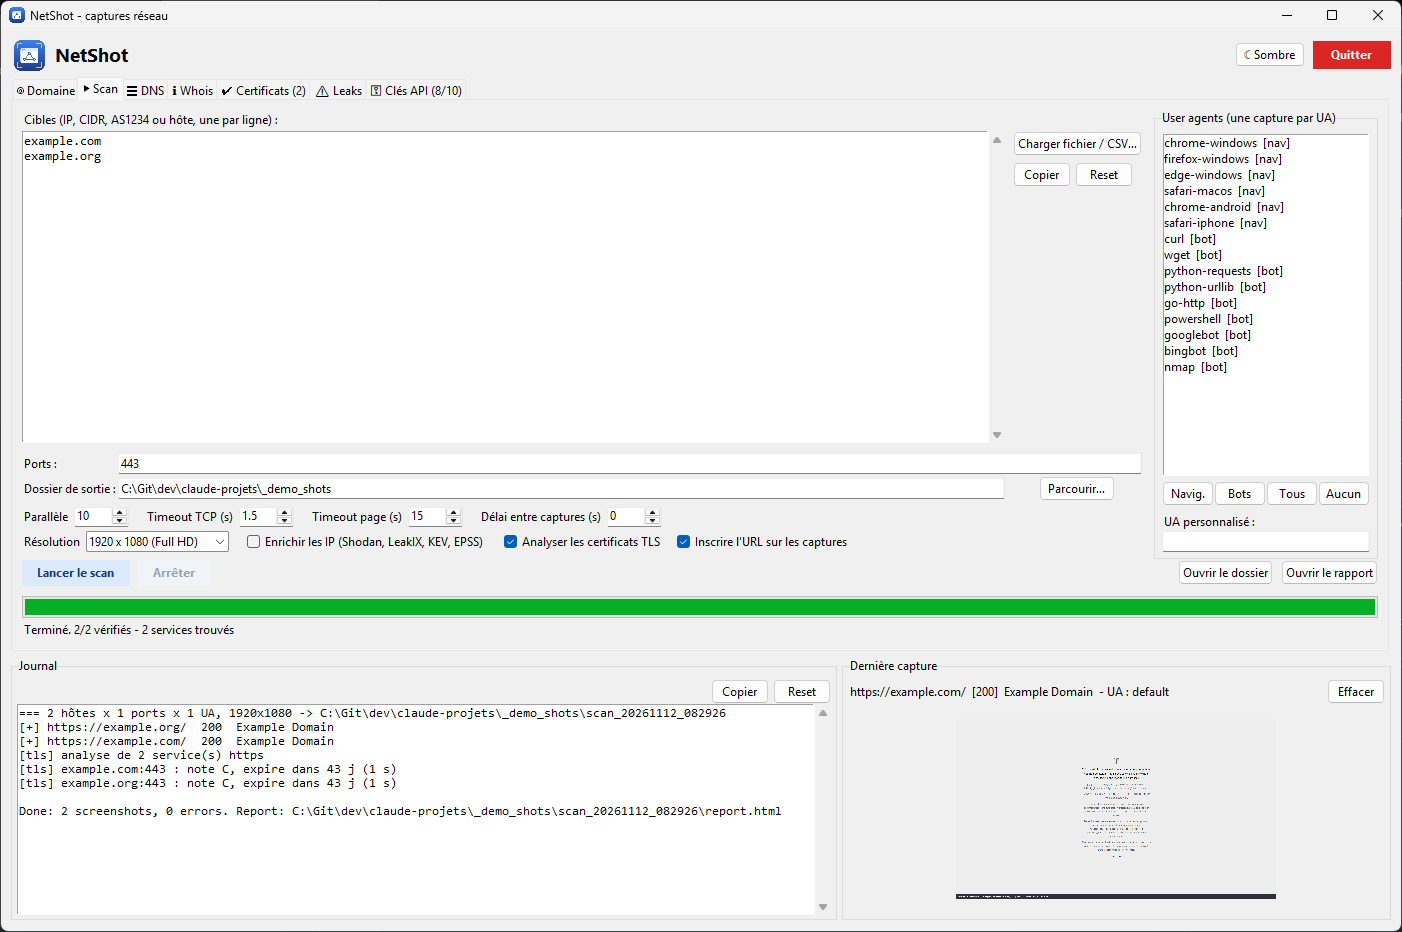
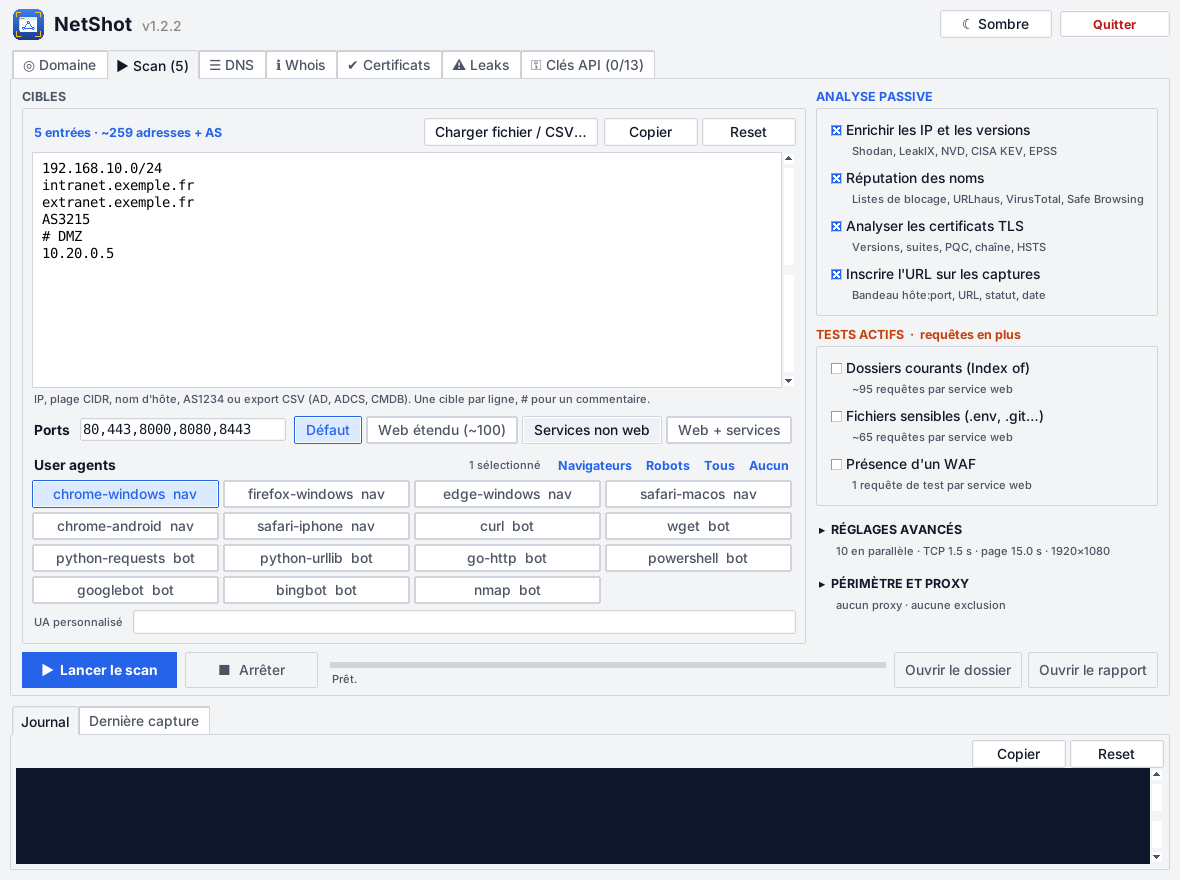
Interface 1.2.2 : autres onglets au style du Scan
- Titres avec icônes, encadré d'attente tant qu'il n'y a pas de résultat (Go)
- Sources en boutons à cocher, constats en pastilles colorées, grille des clés API (Go)
- Boutons principaux en bleu plein, aides et liens stylés, SoftButton supprimé (Python)
- Correctif : onglet DNS sans enregistrement (Go)
- Captures du README mises à jour ; détail dans CHANGELOG.md

Claude-Session: https://claude.ai/code/session_01DHXZEEBybHgq8eFqwoZAWK

Changed region(s): [[0.0, 0.0, 1.0, 1.0], [0.8847, 0.0, 1.0, 0.092], [0.7932, 0.0, 0.8847, 0.0307]]

diff --git a/core/gui.py b/core/gui.py
@@ -62,50 +62,6 @@ LEAK_DATA_COLS = {"email": ("E-mail", 220), "username": ("Identifiant", 120), "p
 LEAK_MASK = "••••••••"  # fixed length: the length of a password is information too
 
 
-# Soft colours for the main action buttons: (background, hover, text)
-SOFT_COLORS = {"primary": ("#dbeafe", "#bfdbfe", "#1e3a8a"),   # soft blue
-               "danger": ("#fee2e2", "#fecaca", "#991b1b")}    # soft red
-SOFT_DISABLED = ("#f1f5f9", "#94a3b8")                         # background, text
-SOFT_COLORS_DARK = {"primary": ("#1e3a5f", "#26507f", "#bfdbfe"),
-                    "danger": ("#4c1d1d", "#652626", "#fecaca")}
-SOFT_DISABLED_DARK = ("#2a2d33", "#6b7280")
-
-
-class SoftButton(tk.Button):
-    """Flat tk.Button in a soft colour, lighter on hover, greyed out when disabled.
-    Same API as the ttk buttons it replaces: configure(state=..., text=...)."""
-
-    def __init__(self, parent, kind="primary", **kw):
-        self._kind, self._disabled = kind, SOFT_DISABLED
-        self._bg, self._hover, fg = SOFT_COLORS[kind]
-        super().__init__(parent, fg=fg, activeforeground=fg, activebackground=self._hover,
-                         disabledforeground=SOFT_DISABLED[1], relief="flat", bd=0, highlightthickness=0,
-                         padx=14, pady=4, font=("Segoe UI", 9, "bold"), **kw)
-        self._paint()
-        self.bind("<Enter>", lambda e: self._paint(hover=True))
-        self.bind("<Leave>", lambda e: self._paint())
-
-    def _paint(self, hover=False):
-        off = str(self["state"]) == "disabled"
-        tk.Button.configure(self, bg=self._disabled[0] if off else (self._hover if hover else self._bg),
-                            cursor="arrow" if off else "hand2")
-
-    def set_dark(self, dark):
-        self._bg, self._hover, fg = (SOFT_COLORS_DARK if dark else SOFT_COLORS)[self._kind]
-        self._disabled = SOFT_DISABLED_DARK if dark else SOFT_DISABLED
-        tk.Button.configure(self, fg=fg, activeforeground=fg, activebackground=self._hover,
-                            disabledforeground=self._disabled[1])
-        self._paint()
-
-    def configure(self, cnf=None, **kw):
-        result = super().configure(cnf, **kw)
-        if "state" in kw or (isinstance(cnf, dict) and "state" in cnf):
-            self._paint()
-        return result
-
-    config = configure
-
-
 class ThinProgress(tk.Canvas):
     """6 px progress bar (a ttk one cannot be that thin in the clam theme). Same calls as the
     ttk.Progressbar it replaces: configure(maximum=..., value=...)."""
@@ -416,7 +372,7 @@ class NetshotApp:
         self.stop_btn.grid(row=0, column=1, rowspan=2, sticky="ns", padx=8)
         self.progress = ThinProgress(actions)
         self.progress.grid(row=0, column=2, sticky="ew", padx=(4, 8), pady=(10, 2))
-        self.status = tk.StringVar(value="Prêt. Aucun UA sélectionné = UA du navigateur.")
+        self.status = tk.StringVar(value="Prêt.")
         ttk.Label(actions, textvariable=self.status, style="Muted.TLabel").grid(row=1, column=2, sticky="w", padx=(4, 8))
         self.folder_btn = ttk.Button(actions, text="Ouvrir le dossier", command=self.open_folder, state="disabled")
         self.folder_btn.grid(row=0, column=3, rowspan=2, sticky="ns")
@@ -432,7 +388,7 @@ class NetshotApp:
         ttk.Label(tab, text="Domaines :").grid(row=0, column=0, sticky="w")
         self.ct_domains = tk.StringVar()
         ttk.Entry(tab, textvariable=self.ct_domains).grid(row=0, column=1, sticky="ew", padx=4)
-        self.ct_btn = SoftButton(tab, text="Rechercher", command=self.ct_search)
+        self.ct_btn = ttk.Button(tab, style="Primary.TButton", text="Rechercher", command=self.ct_search)
         self.ct_btn.grid(row=0, column=2)
         # Source checkboxes: keyed sources without a key are disabled (see refresh_sources)
         checks = ttk.Frame(tab)
@@ -450,7 +406,7 @@ class NetshotApp:
         self.ct_private = tk.BooleanVar(value=False)
         ttk.Checkbutton(filters, text="seulement les noms qui résolvent", variable=self.ct_resolve).pack(side="left", padx=(0, 12))
         ttk.Checkbutton(filters, text="seulement IP privées", variable=self.ct_private).pack(side="left")
-        ttk.Label(tab, foreground="#6b7280", text="Les sources marquées (clé) demandent une clé gratuite "
+        ttk.Label(tab, style="Hint.TLabel", text="Les sources marquées (clé) demandent une clé gratuite "
                   "(onglet Clés API). Les noms trouvés sont ajoutés aux cibles de l'onglet Scan.").grid(
             row=3, column=0, columnspan=3, sticky="w", pady=(6, 0))
         self.ct_title = tk.StringVar()
@@ -472,9 +428,9 @@ class NetshotApp:
         ttk.Label(tab, text="Serveur :").grid(row=0, column=2, sticky="w", padx=(8, 0))
         self.dns_server = tk.StringVar()
         ttk.Entry(tab, textvariable=self.dns_server, width=18).grid(row=0, column=3, padx=4)
-        self.dns_btn = SoftButton(tab, text="Interroger", command=self.dns_run)
+        self.dns_btn = ttk.Button(tab, style="Primary.TButton", text="Interroger", command=self.dns_run)
         self.dns_btn.grid(row=0, column=4)
-        ttk.Label(tab, foreground="#6b7280", wraplength=1050, text="Serveur vide = résolveurs du système. "
+        ttk.Label(tab, style="Hint.TLabel", wraplength=1050, text="Serveur vide = résolveurs du système. "
                   "Une requête ANY est tentée, mais la plupart des serveurs la refusent (RFC 8482) : chaque type "
                   "est aussi interrogé un par un (A, AAAA, NS, SOA, MX, TXT, CAA, DS, DNSKEY, HTTPS, DMARC, "
                   "MTA-STS, SRV Active Directory et Microsoft 365…).").grid(row=1, column=0, columnspan=5, sticky="w", pady=(6, 0))
@@ -545,9 +501,9 @@ class NetshotApp:
         entry = ttk.Entry(tab, textvariable=self.whois_query)
         entry.grid(row=0, column=1, sticky="ew", padx=4)
         entry.bind("<Return>", lambda e: self.whois_run())
-        self.whois_btn = SoftButton(tab, text="Interroger", command=self.whois_run)
+        self.whois_btn = ttk.Button(tab, style="Primary.TButton", text="Interroger", command=self.whois_run)
         self.whois_btn.grid(row=0, column=2)
-        ttk.Label(tab, foreground="#6b7280", wraplength=1050, text="RDAP (registre officiel, via HTTPS) pour le "
+        ttk.Label(tab, style="Hint.TLabel", wraplength=1050, text="RDAP (registre officiel, via HTTPS) pour le "
                   "tableau et les constats, WHOIS port 43 pour le texte brut (souvent filtré en entreprise). "
                   "Un sous-domaine est cherché sous son domaine enregistré. Exemples : exemple.fr, 8.8.8.8, AS3215.").grid(
             row=1, column=0, columnspan=3, sticky="w", pady=(6, 0))
@@ -605,14 +561,14 @@ class NetshotApp:
         ttk.Label(tab, text="Limite :").grid(row=0, column=4, sticky="w", padx=(8, 0))
         self.leak_limit = tk.StringVar(value="100")
         ttk.Spinbox(tab, from_=1, to=1000, increment=100, textvariable=self.leak_limit, width=6).grid(row=0, column=5, padx=4)
-        self.leak_btn = SoftButton(tab, text="Rechercher", command=self.leak_run)
+        self.leak_btn = ttk.Button(tab, style="Primary.TButton", text="Rechercher", command=self.leak_run)
         self.leak_btn.grid(row=0, column=6)
         opts = ttk.Frame(tab)
         opts.grid(row=1, column=0, columnspan=7, sticky="w", pady=(6, 0))
         self.leak_show_pw = tk.BooleanVar(value=False)
         ttk.Checkbutton(opts, text="Afficher les mots de passe", variable=self.leak_show_pw,
                         command=self.leak_render).pack(side="left")
-        ttk.Label(opts, foreground="#6b7280", text="   LeakCheck Pro API v2 (clé dans l'onglet Clés API). "
+        ttk.Label(opts, style="Hint.TLabel", text="   LeakCheck Pro API v2 (clé dans l'onglet Clés API). "
                   "Type auto : e-mail, identifiant, téléphone, hash. Domaine : choisir le type domain. "
                   "Seule la valeur recherchée est envoyée à LeakCheck.").pack(side="left")
         head = ttk.Frame(tab)
@@ -638,22 +594,24 @@ class NetshotApp:
         tab = ttk.Frame(self.nb, padding=10)
         self.nb.add(tab, text=TAB_KEYS)
         tab.columnconfigure(1, weight=1)
-        ttk.Label(tab, text="Champ vide = garder la clé actuelle, « - » = l'effacer.").grid(
-            row=0, column=0, columnspan=3, sticky="w", pady=(0, 8))
+        head = ttk.Frame(tab)
+        head.grid(row=0, column=0, columnspan=3, sticky="w", pady=(0, 8))
+        ttk.Label(head, text="Clés API des services gratuits", style="Section.TLabel").pack(anchor="w")
+        ttk.Label(head, text="Champ vide = garder la clé actuelle, « - » = l'effacer.", style="Hint.TLabel").pack(anchor="w")
         self.key_entries, self.key_states = {}, {}
         for i, (name, label, url) in enumerate(sources.KEY_SOURCES, start=1):
-            ttk.Label(tab, text=label).grid(row=i, column=0, sticky="w", padx=(0, 8), pady=2)
+            ttk.Label(tab, text=label, font=("Segoe UI", 9, "bold")).grid(row=i, column=0, sticky="w", padx=(0, 8), pady=2)
             var = tk.StringVar()
             ttk.Entry(tab, textvariable=var, show="•").grid(row=i, column=1, sticky="ew", pady=2)
             state = tk.StringVar()
-            link = ttk.Label(tab, textvariable=state, foreground="#2563eb", cursor="hand2")
+            link = ttk.Label(tab, textvariable=state, style="Link.TLabel", cursor="hand2")
             link.grid(row=i, column=2, sticky="w", padx=(8, 0))
             link.bind("<Button-1>", lambda e, u=url: webbrowser.open(u))
             self.key_entries[name], self.key_states[name] = var, state
         row = len(self.key_entries) + 1
-        SoftButton(tab, text="Enregistrer les clés", command=self.save_keys).grid(row=row, column=0, sticky="w", pady=(10, 0))
+        ttk.Button(tab, style="Primary.TButton", text="Enregistrer les clés", command=self.save_keys).grid(row=row, column=0, sticky="w", pady=(10, 0))
         ttk.Label(tab, text=f"Stockées dans {sources.keys_path()}",
-                  foreground="#6b7280").grid(row=row, column=1, columnspan=2, sticky="w", pady=(10, 0))
+                  style="Hint.TLabel").grid(row=row, column=1, columnspan=2, sticky="w", pady=(10, 0))
         return tab
 
     def _build_certs_tab(self):
@@ -672,7 +630,7 @@ class NetshotApp:
         side = ttk.Frame(top)
         side.grid(row=0, column=1, sticky="n", padx=(8, 0))
         ttk.Button(side, text="Services https du dernier scan", command=self.tls_from_last).pack(fill="x")
-        self.tls_btn = SoftButton(side, text="Analyser", command=self.tls_run)
+        self.tls_btn = ttk.Button(side, style="Primary.TButton", text="Analyser", command=self.tls_run)
         self.tls_btn.pack(fill="x", pady=(6, 0))
         self._tool_buttons(side, lambda: self.tls_targets.get("1.0", "end"),
                            lambda: self.tls_targets.delete("1.0", "end")).pack(fill="x", pady=(6, 0))

diff --git a/core/theme.py b/core/theme.py
@@ -190,6 +190,13 @@ class ThemeManager:
                                             ("active", d["accent_hover"])],
               foreground=[("disabled", d["muted"])])
         s.configure("Big.TButton", font=("Segoe UI", 10), padding=(14, 6))
+        s.configure("Primary.TButton", background=d["accent"], foreground="#ffffff", bordercolor=d["accent"],
+                    lightcolor=d["accent"], darkcolor=d["accent"], font=("Segoe UI", 9, "bold"), padding=(12, 3))
+        s.map("Primary.TButton", background=[("disabled", d["border"]), ("pressed", d["accent_hover"]),
+                                             ("active", d["accent_hover"])],
+              foreground=[("disabled", d["muted"])])
+        s.configure("Hint.TLabel", foreground=d["muted"])
+        s.configure("Link.TLabel", foreground=d["accent"])
         s.configure("Quit.TButton", foreground=d["danger"], font=("Segoe UI", 9, "bold"))
         s.map("Quit.TButton", background=[("active", d["danger"])], foreground=[("active", "#ffffff")])
         s.configure("Link.TButton", background=d["bg"], foreground=d["accent"], bordercolor=d["bg"],
@@ -225,12 +232,10 @@ class ThemeManager:
         return DARK_COLORS.get(str(color).lower(), color) if self.dark else color
 
     def _walk(self, widget):
-        from .gui import SoftButton, ThinProgress  # avoid a circular import at load time
+        from .gui import ThinProgress  # avoid a circular import at load time
         # widget._w, not str(widget): a ScrolledText reports the path of its outer frame
         d, dark, path = self.palette, self.dark, widget._w
-        if isinstance(widget, SoftButton):
-            widget.set_dark(dark)
-        elif isinstance(widget, ThinProgress):
+        if isinstance(widget, ThinProgress):
             widget.set_colors(d["border"], d["accent"])
         elif isinstance(widget, tk.Text):
             bg0 = self._keep((path, "bg"), widget.cget("background"))

diff --git a/core/__init__.py b/core/__init__.py
@@ -2,7 +2,7 @@
 
 from pathlib import Path
 
-__version__ = "1.2.1"  # keep in step with CHANGELOG.md
+__version__ = "1.2.2"  # keep in step with CHANGELOG.md
 
 # Application folder (holds keys.json, assets/, screenshots/)
 ROOT = Path(__file__).resolve().parent.parent

diff --git a/CHANGELOG.md b/CHANGELOG.md
@@ -3,6 +3,27 @@
 Format inspiré de [Keep a Changelog](https://keepachangelog.com/fr/1.1.0/). La version Go a son
 propre journal dans le dépôt [Netshot-Go](https://github.com/Wr1ghtShade/Netshot-Go).
 
+## [1.2.2] - 2026-11-13
+
+Refonte de l'interface, étape 2 : les autres onglets prennent le style de l'onglet Scan (même
+étape que la version Go 1.2.2).
+
+### Modifié
+- Boutons principaux de tous les onglets (Rechercher, Interroger, Analyser, Enregistrer les clés)
+  en bleu plein, style `Primary.TButton` ; la classe `SoftButton` (boutons pastel) est supprimée.
+- Aides en gris via le style `Hint.TLabel` (lisible dans les deux thèmes).
+- **Clés API** : titre de section, nom des services en gras, état et lien en couleur d'accent
+  (`Link.TLabel`).
+- Statut initial de la barre d'action : « Prêt. » (le nombre d'UA est affiché à côté de la liste).
+- Capture du README mise à jour.
+
+### Fichiers
+- `core/gui.py`, `core/theme.py`, `core/__init__.py`, `README.md`, `docs/netshot-python.png`.
+
+### Tests
+- Chaque onglet ouvert sous Xvfb (Tk 8.6), thèmes clair et sombre ; scan complet lancé depuis
+  l'interface sur une page locale.
+
 ## [1.2.1] - 2026-11-13
 
 Refonte de l'interface, étape 1 : en-tête et onglet Scan, d'après la maquette validée (même

diff --git a/README.md b/README.md
@@ -7,7 +7,7 @@ priorisation KEV / EPSS).
 Version Python ; même fonctionnement que la version Go (projet `netshot-go`).
 `keys.json` (clés API) et `settings.json` (thème) ne sont jamais versionnés (`.gitignore`).
 
-![NetShot (Python) : onglet Scan après une capture de example.com et example.org](docs/netshot-python.png)
+![NetShot (Python) : onglet Scan (version 1.2.2)](docs/netshot-python.png)
 
 ```
 netshot/
